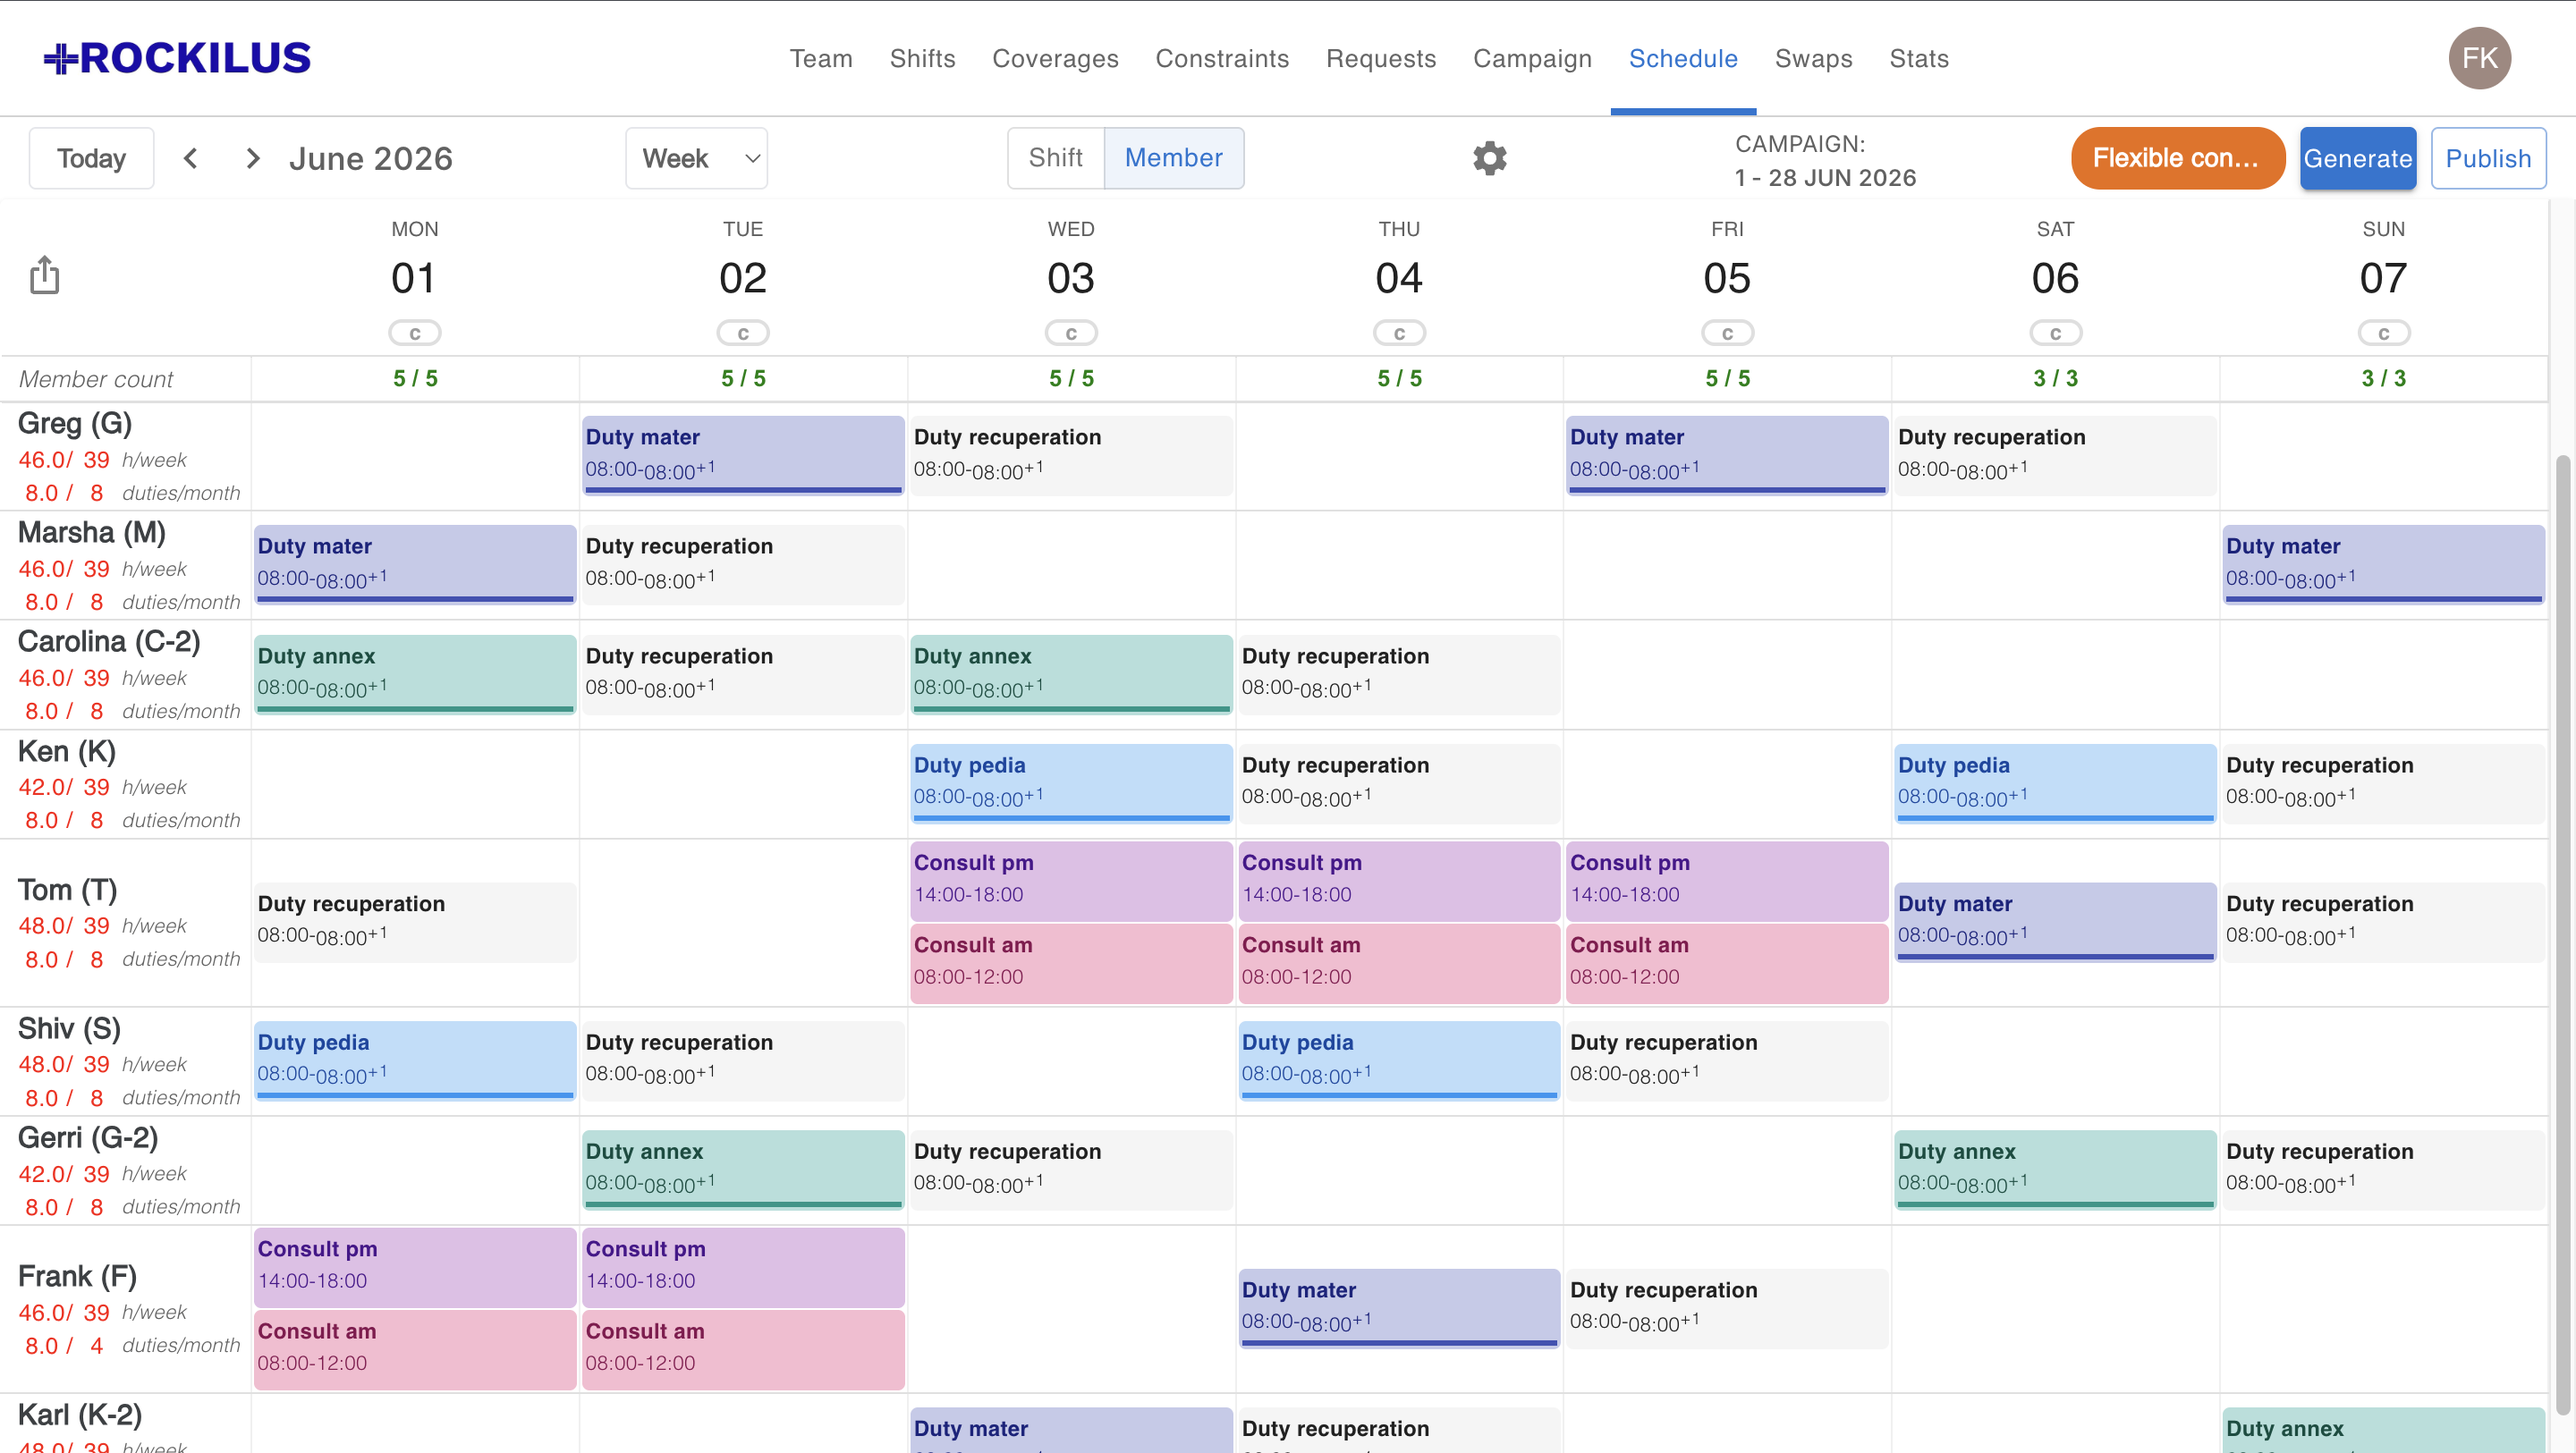
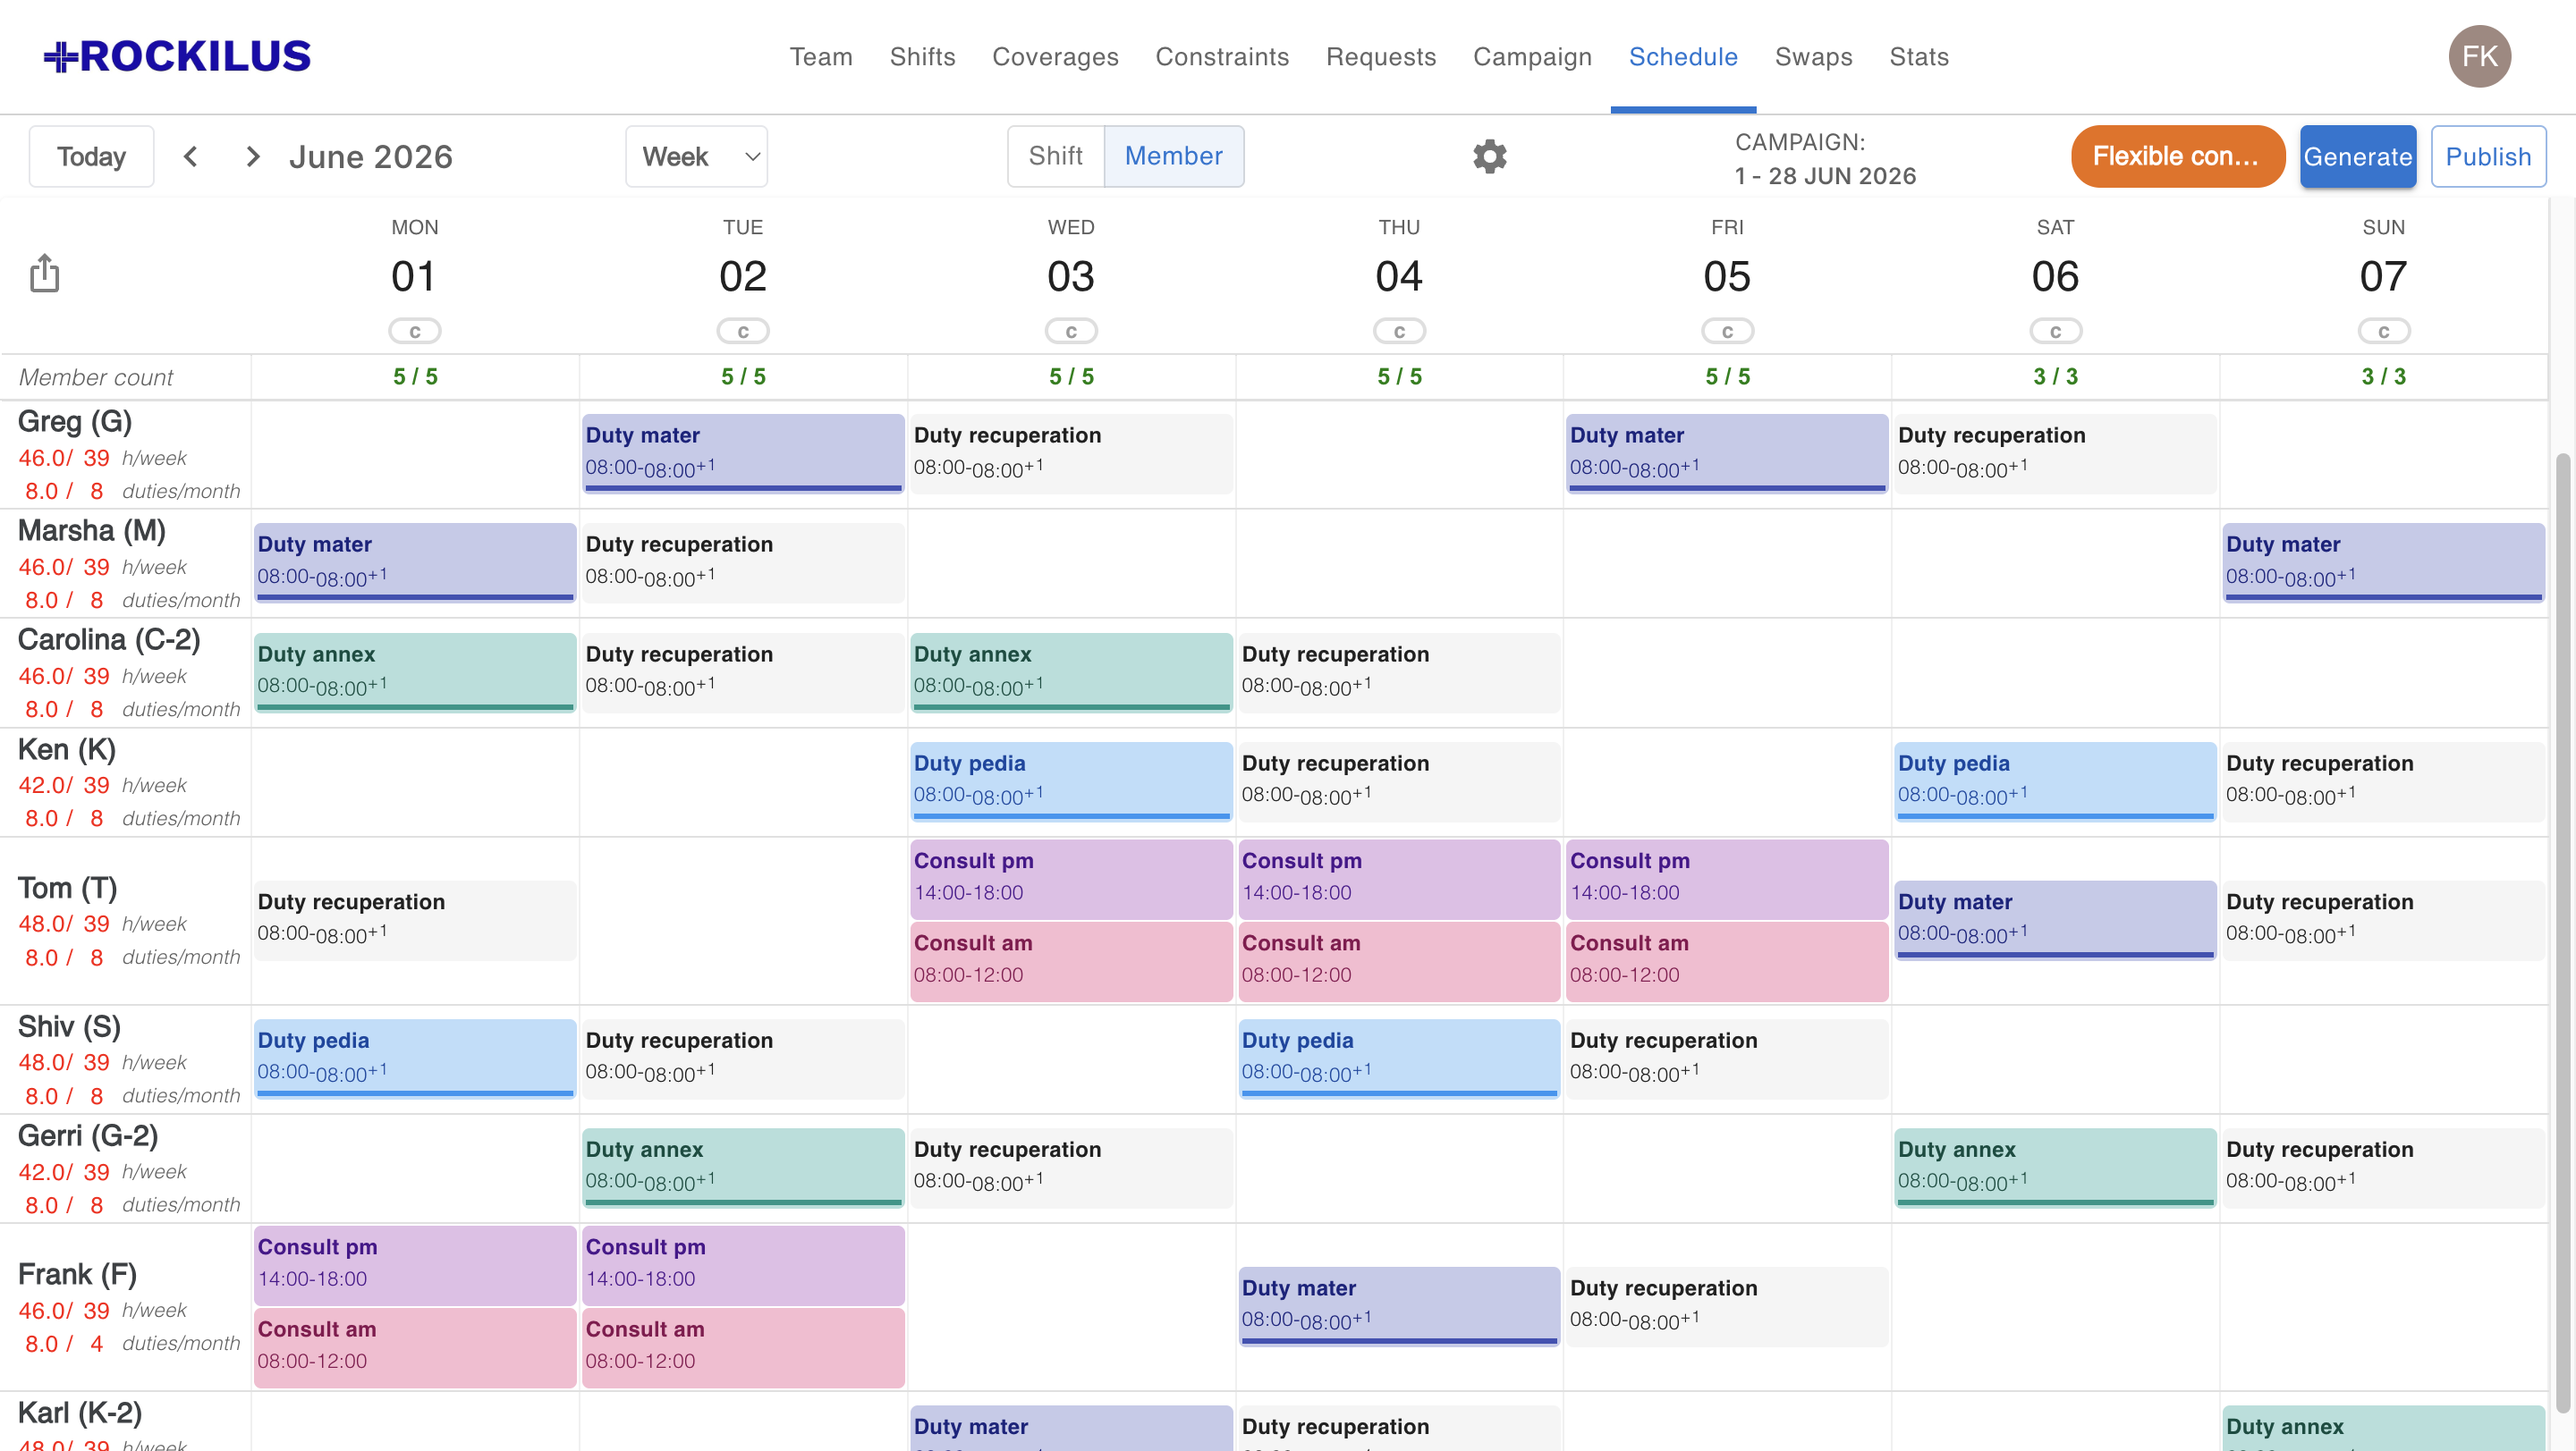
feat: update HeroSection styles for improved responsiveness and accessibility

diff --git a/rockilus-web/components/marketing/HeroSection.tsx b/rockilus-web/components/marketing/HeroSection.tsx
@@ -27,23 +27,23 @@ export default function HeroSection({ hero, lang }: HeroProps) {
   return (
     <section className="pt-32 pb-20 px-4 sm:px-6 bg-white">
       {/* Text + CTAs — centered single column */}
-      <div className="mx-auto max-w-4xl text-center space-y-8">
-        <h1 className="text-5xl sm:text-6xl lg:text-7xl font-bold tracking-tight text-slate-900 leading-tight">
+      <div className="mx-auto max-w-4xl text-center space-y-4">
+        <h1 className="text-4xl sm:text-5xl lg:text-6xl font-bold tracking-tight text-slate-900 leading-tight">
           {hero.headline}
         </h1>
-        <p className="text-xl sm:text-2xl text-slate-600 leading-relaxed max-w-3xl mx-auto">
+        <p className="text-lg sm:text-xl text-slate-600 leading-relaxed max-w-3xl mx-auto">
           {hero.subheadline}
         </p>
-        <div className="flex flex-col sm:flex-row gap-4 justify-center">
+        <div className="flex flex-col sm:flex-row gap-3 justify-center items-center">
           <a
             href="#cta"
-            className="inline-flex items-center justify-center rounded-md bg-blue-600 px-8 py-3 text-white font-semibold hover:bg-blue-700 transition-colors"
+            className="inline-flex items-center justify-center rounded-md bg-blue-600 px-6 py-2.5 text-white font-semibold hover:bg-blue-700 transition-colors text-sm"
           >
             {hero.cta}
           </a>
           <a
             href="#demo"
-            className="inline-flex items-center justify-center rounded-md border border-blue-600 px-8 py-3 text-blue-600 font-semibold hover:bg-blue-50 transition-colors"
+            className="inline-flex items-center justify-center rounded-md border border-blue-600 px-6 py-2.5 text-blue-600 font-semibold hover:bg-blue-50 transition-colors text-sm"
           >
             {hero.ctaDemo}
           </a>
